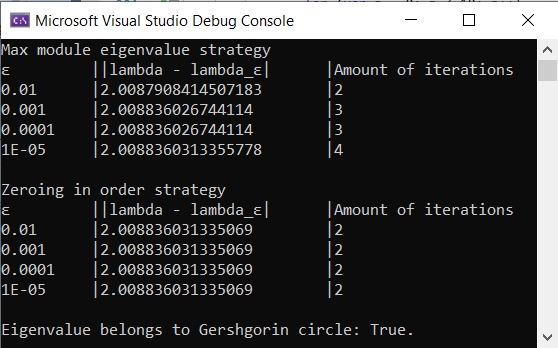
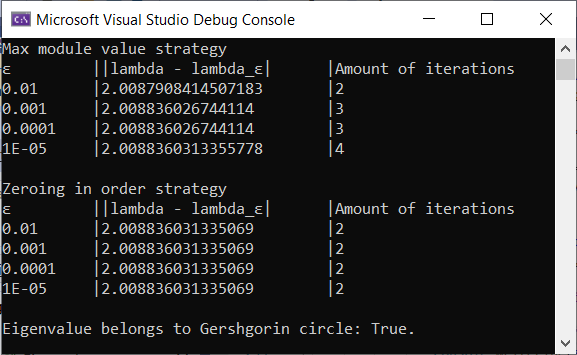
Replaced pics

diff --git a/Semester6/Task6/Task6/Eigenvalues.cs b/Semester6/Task6/Task6/Eigenvalues.cs
@@ -229,7 +229,7 @@ namespace Task6
 
             foreach (var equation in equations)
             {
-                Console.WriteLine("Max module eigenvalue strategy");
+                Console.WriteLine("Max module value strategy");
                 Console.WriteLine(string.Format("{0,-10}|{1,-25}|{2,-25}", "ε", "|lambda - lambda_ε|", "Amount of iterations"));
 
                 matrix = equation.Item1;
